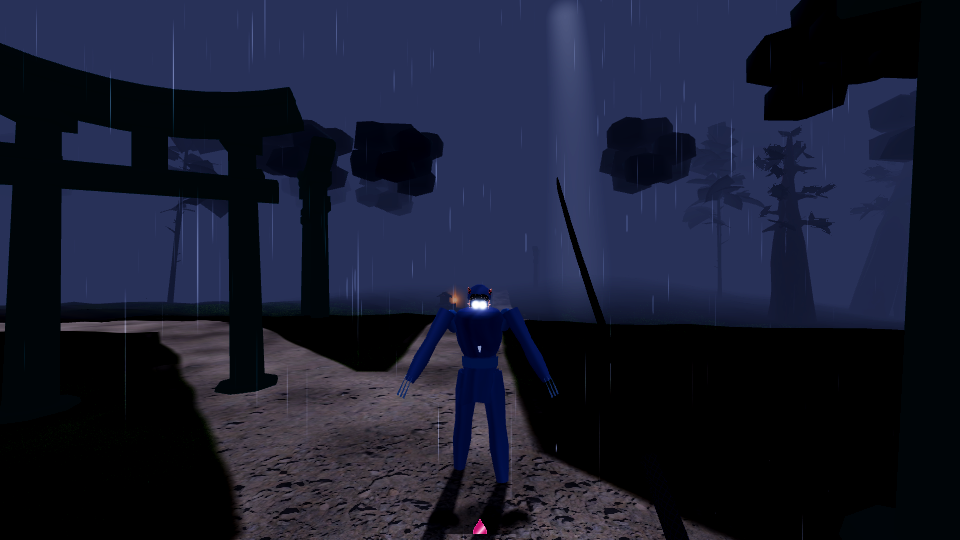
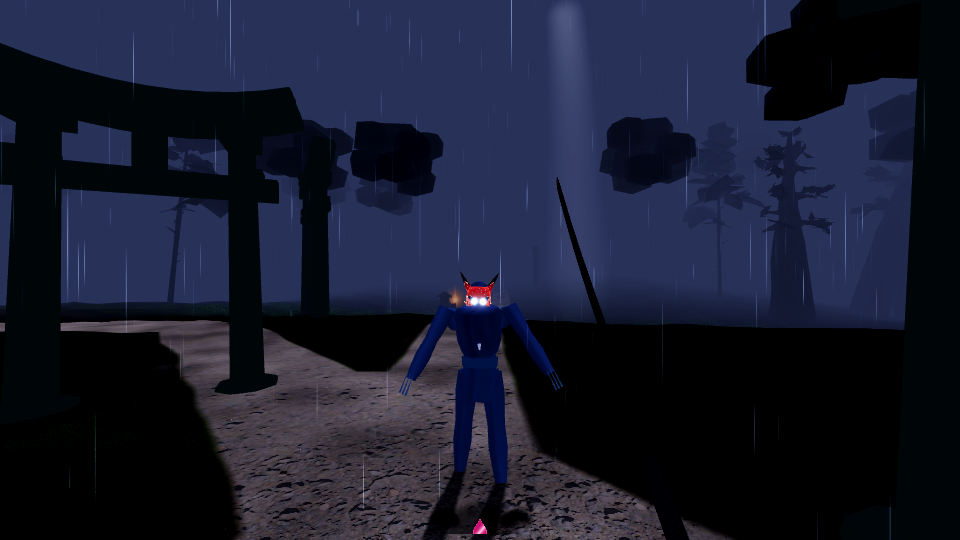
docs(n3): fix2 review, PRE/POST head shots, xr flake noted for N7
Honest review: the mask now separates from the navy body by hue, the horns
are present but thinner and dark at 3 m, and the face is darker than the
collar (the brief asked for lighter). The xr_play_test flake is noted here
for N7; it is not fixed in this round.

diff --git a/docs/N3_YOKAI_MASK.md b/docs/N3_YOKAI_MASK.md
@@ -119,3 +119,45 @@ Testy (flaky, poza N3):
   checki run 2) pada losowo także na commicie sprzed N3 (`a033e7f`: 1 na 4 przebiegi).
   To pre-istniejąca niestabilność czasowa testu XR, nie regresja tej pracy. Nie naprawiona
   w tym commicie; wymaga osobnej analizy (czasy klatek i trafienia ostrza w symulacji XR).
+
+## Poprawki fix2 (ostatnia runda N3, tylko maska)
+
+Zmiany:
+- **Rogi:** osobna siatka – dwa zwężane rogi kości słoniowej (`YokaiForms.horn_mesh`, jedna
+  powierzchnia, ~0,13 m, wychylone na boki i do góry), `keep_on_piece` (jadą z głową przy cięciu).
+  Materiał `HORN_IVORY` (0,86/0,80/0,66), szorstkość 0,45. Rogi maski zostały, ale są ciemne.
+- **Maska większa:** przebake z szerokością 0,22 m (zamiast 0,176; ×1,25) i nosem na 0,155 m
+  (`tools/bake_yokai_mask.py`, nowe opcjonalne argumenty). Oczy: `EYE_X/Y/Z` = 0,0305/-0,02/0,13
+  (przeliczone z otworów na nowym renderze). Oni: `ONI_MASK_SCALE` 1,88, efektywna szerokość
+  bez zmian (~0,41 m). Trójkąty 1 700 (bez zmian).
+- **Twarz:** `tools/retexture_yokai_mask.py` podnosi prawie czarne wyspy albedo do ciemnej
+  cynobry (125/36/30). Czerwona lakiera i kość zębów zostają, znika czarne iskrzenie.
+  `MASK_TINT` (3,2/2,5/2,1), `normal_depth` 0,3, `specular_scale` 0,25.
+- **Oczy:** mniejsze (promień 0,0085 zamiast 0,0115), jedna powierzchnia dla obu, emisja
+  0,85 → 0,5, poświata EyeGlow 0,075 → 0,07 (kompromis z testem kolorów szkół).
+- **Test:** nowe asercje (3 m): rogi nad głową zmieniają piksele względem nieba
+  (kontrast ≥ 0,05 i ≥ 6 px), twarz różni się jasnością od kołnierza pod maską (|Δ| ≥ 0,05).
+
+Wyniki (ten sam kadr, PRZED/PO: `docs/n3/PRE_POST_head_3m_fix2.png`):
+- 8 m, cztery szkoły: najbliższa para 0,15 (próg 0,12). Było 0,22 przed czerwoną maską:
+  czerwień wokół oczu zbliża kolory szkół. To realny koszt, nie szum.
+- 3 m, maska vs tło: 0,20 (próg 0,08). Rogi nad sylwetką: kontrast 0,05–0,09, marginalnie.
+- 3 m, twarz vs kołnierz: |Δ| 0,07–0,11. Twarz jest CIEMNIEJSZA od kołnierza (0,23 vs 0,30),
+  więc maska NIE jest jaśniejsza od kaptura, jak prosił supervisor. Różni się barwą i jasnością,
+  ale nie wyraźnie na plus. Test został nazwany uczciwie („różni się jasnością”), nie „jaśniejsza”.
+- Trójkąty na yōkai: 3 394 (≤4 000); surface 23 (≤24). Fizyka bez zmian.
+
+Surowa ocena po fix2:
+- **Maska jest już czerwona i odcina się od granatowego ciała** – to największa zmiana
+  i to jest czytelne z 3 m. Głowa nie jest już granatową kulą z dwoma plamami.
+- **Rogi są, ale cieńsze i wyglądają ciemno/czerwonawo z 3 m**, nie kością słoniową. PRZED
+  miało grubsze, ciemniejsze rogi o wyraźniejszej sylwetce; PO jest bliskie, nie lepsze.
+  Premium nie osiągnięte: brak wyraźnych rysów (brwi, usta, zęby) przy 30 px.
+- **Oczy**: mniej prześwietlone, ale szkoła gorzej czytelna na czerwonym tle (patrz 0,15).
+- **Oni**: ta sama maska, czerwona, lepsza niż poprzednia blokowa; korpus Oni nadal blokowy.
+- Kirisute: kadr po cięciu nadal nie pokazuje wyraźnie przekroju.
+
+Zapisane poza N3 (dla N7):
+- `xr_play_test` jest niestabilny. Pada losowo (run 2, kolejne checki), także na commicie
+  sprzed N3 (`a033e7f`: 1 na 4 przebiegi). Pre-istniejąca niestabilność czasowa testu XR.
+  Nie naprawiona tutaj; wymaga analizy czasów klatek i trafień ostrza w symulacji XR.
